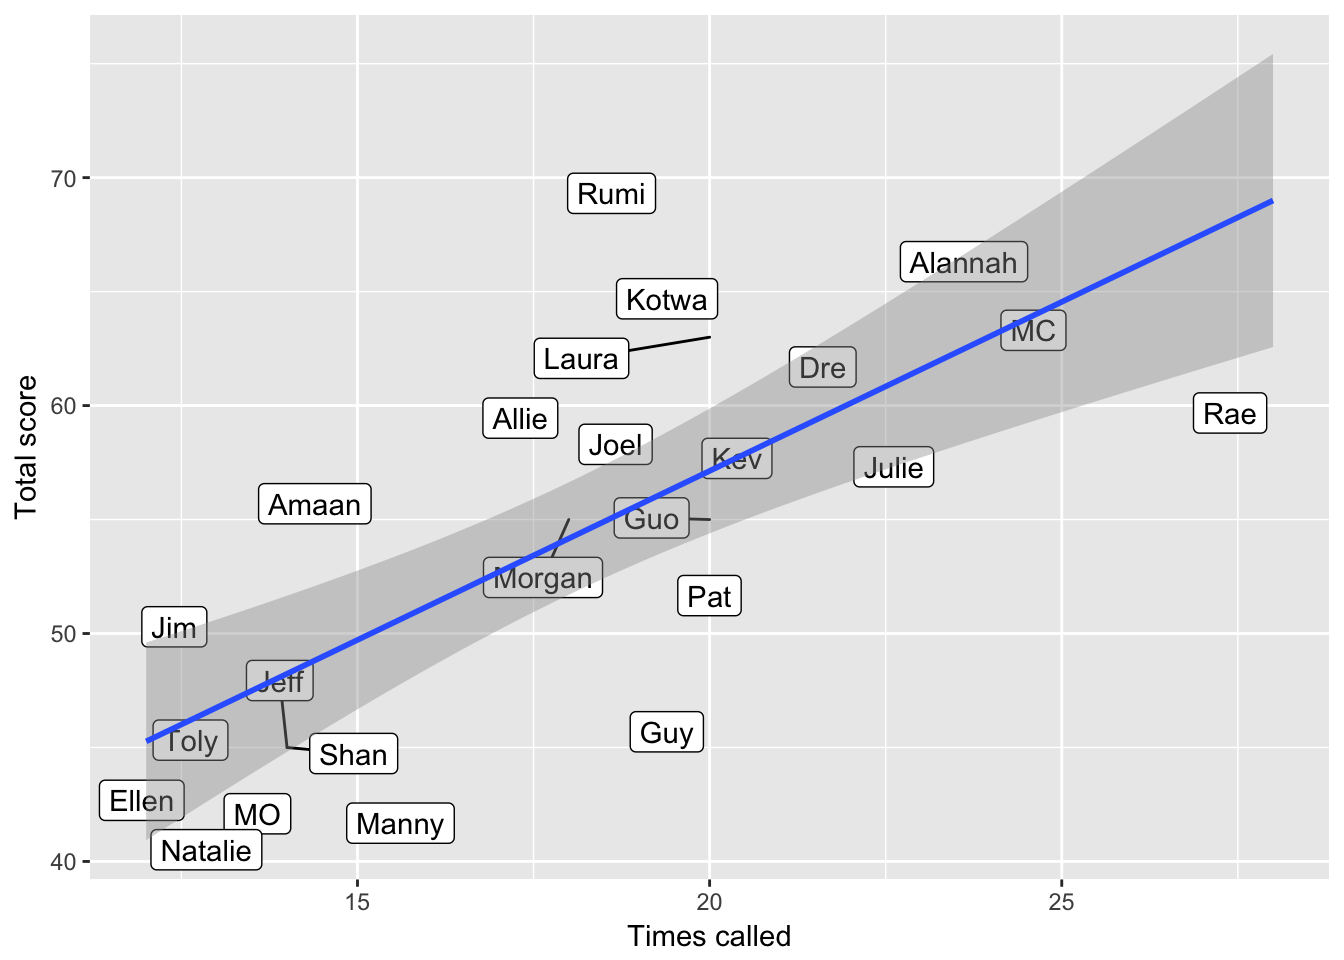
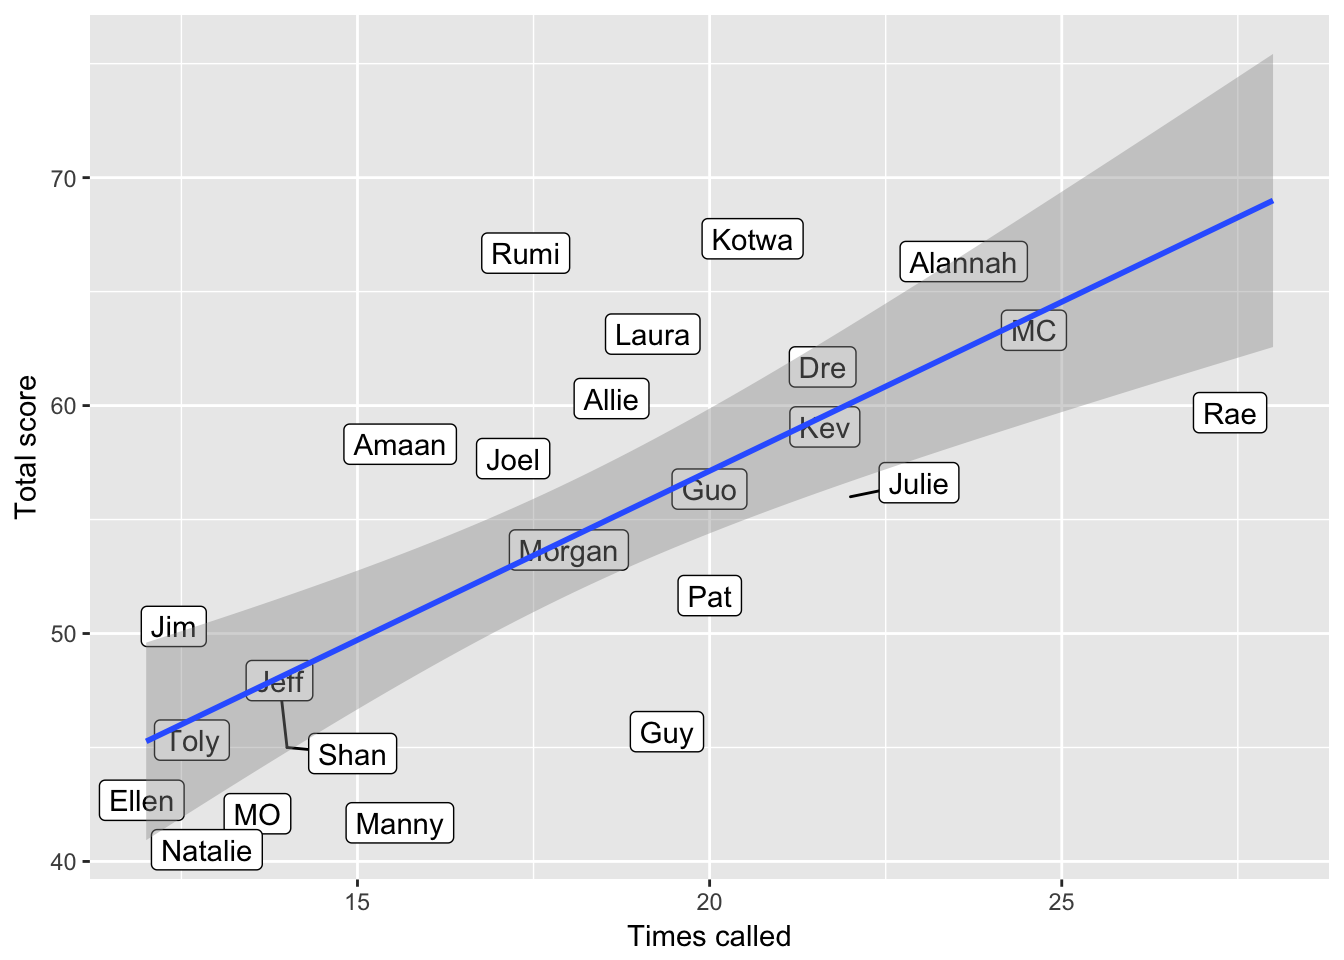
fixed loner win overcounting

diff --git a/analytics.html b/analytics.html
@@ -129,8 +129,8 @@ $(document).ready(function () {
 
 <div id="per-person-statistics" class="section level3">
 <h3>Per-person statistics</h3>
-<div id="htmlwidget-b1dca9dd893761e335ce" style="width:100%;height:auto;" class="datatables html-widget"></div>
-<script type="application/json" data-for="htmlwidget-b1dca9dd893761e335ce">{"x":{"filter":"none","data":[["Alannah","Allie","Amaan","Dre","Ellen","Guo","Guy","Jeff","Jim","Joel","Julie","Kev","Kotwa","Laura","MC","MO","Manny","Morgan","Natalie","Pat","Rae","Rumi","Shan","Toly"],[65,59,57,63,44,55,47,45,49,57,56,59,66,63,62,43,43,55,41,53,61,68,45,44],[53,55,60,37,59,58,58,59,64,47,48,52,50,38,45,60,62,49,67,48,53,50,57,71],[23,18,15,21,12,20,20,14,13,18,22,21,20,20,24,14,15,18,12,20,28,18,14,12],[3,6,6,4,7,5,7,7,7,5,3,7,7,6,7,3,2,4,4,6,5,5,7,4],[4,6,5,6,7,3,9,7,4,6,5,7,5,2,6,6,6,6,6,6,6,4,2,6],[1,2,3,2,2,1,6,3,2,3,2,3,4,1,5,3,2,4,4,3,2,2,2,2],[5,9,4,5,6,1,3,1,1,9,5,6,0,5,7,4,4,3,2,1,8,8,1,0],[5,4,4,4,2,3,2,0,1,3,4,4,4,3,3,3,1,4,0,1,5,5,1,3]],"container":"<table class=\"display\">\n  <thead>\n    <tr>\n      <th>Name<\/th>\n      <th>Points for<\/th>\n      <th>Points against<\/th>\n      <th>Calls<\/th>\n      <th>We euchred<\/th>\n      <th>We got euchred<\/th>\n      <th>I got euchred<\/th>\n      <th>Loner tries<\/th>\n      <th>Loner wins<\/th>\n    <\/tr>\n  <\/thead>\n<\/table>","options":{"pageLength":24,"columnDefs":[{"className":"dt-right","targets":[1,2,3,4,5,6,7,8]}],"order":[],"autoWidth":false,"orderClasses":false,"lengthMenu":[10,24,25,50,100]}},"evals":[],"jsHooks":[]}</script>
+<div id="htmlwidget-f4ae3c0c1be9a2271d76" style="width:100%;height:auto;" class="datatables html-widget"></div>
+<script type="application/json" data-for="htmlwidget-f4ae3c0c1be9a2271d76">{"x":{"filter":"none","data":[["Alannah","Allie","Amaan","Dre","Ellen","Guo","Guy","Jeff","Jim","Joel","Julie","Kev","Kotwa","Laura","MC","MO","Manny","Morgan","Natalie","Pat","Rae","Rumi","Shan","Toly"],[65,59,57,63,44,55,47,45,49,57,56,59,66,63,62,43,43,55,41,53,61,68,45,44],[53,55,60,37,59,58,58,59,64,47,48,52,50,38,45,60,62,49,67,48,53,50,57,71],[23,18,15,21,12,20,20,14,13,18,22,21,20,20,24,14,15,18,12,20,28,18,14,12],[3,6,6,4,7,5,7,7,7,5,3,7,7,6,7,3,2,4,4,6,5,5,7,4],[4,6,5,6,7,3,9,7,4,6,5,7,5,2,6,6,6,6,6,6,6,4,2,6],[1,2,3,2,2,1,6,3,2,3,2,3,4,1,5,3,2,4,4,3,2,2,2,2],[5,9,4,5,6,1,3,1,1,9,5,6,0,5,7,4,4,3,2,1,8,8,1,0],[4,3,2,2,1,0,1,0,0,2,4,1,0,1,1,1,0,2,0,1,5,4,0,0]],"container":"<table class=\"display\">\n  <thead>\n    <tr>\n      <th>Name<\/th>\n      <th>Points for<\/th>\n      <th>Points against<\/th>\n      <th>Calls<\/th>\n      <th>We euchred<\/th>\n      <th>We got euchred<\/th>\n      <th>I got euchred<\/th>\n      <th>Loner tries<\/th>\n      <th>Loner wins<\/th>\n    <\/tr>\n  <\/thead>\n<\/table>","options":{"pageLength":24,"columnDefs":[{"className":"dt-right","targets":[1,2,3,4,5,6,7,8]}],"order":[],"autoWidth":false,"orderClasses":false,"lengthMenu":[10,24,25,50,100]}},"evals":[],"jsHooks":[]}</script>
 </div>
 <div id="distributions" class="section level3">
 <h3>Distributions</h3>
